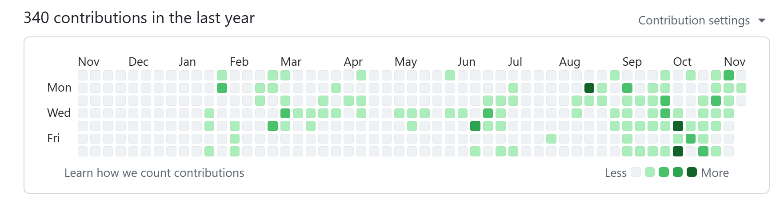
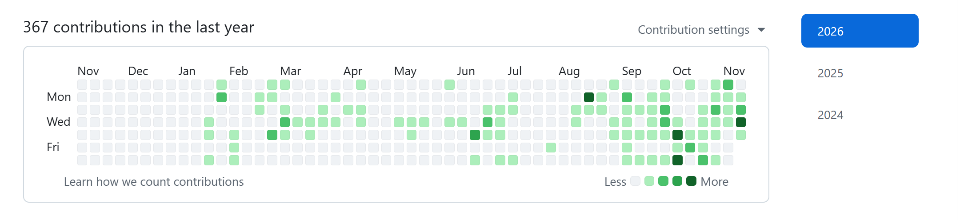
Added Pdf on Education

diff --git a/components/projects/ProjectModal.tsx b/components/projects/ProjectModal.tsx
@@ -11,7 +11,7 @@ export interface Project {
   images: string[];
   videos?: string[];
   techStack: string[];
-  type: 'Frontend' | 'Backend' | 'Full Stack' | 'Mobile Development' | 'DevOps' | 'Deployment' | 'Other' | 'Design';
+  type: 'Frontend' | 'Backend' | 'Full Stack' | 'Mobile Development' | 'DevOps' | 'Deployment' | 'Other' | 'Design' | 'All'; // <--- Hier '| "All"' ergänzt
   liveLink?: string;
   frontendRepo?: string;
   backendRepo?: string;
